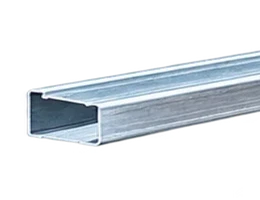
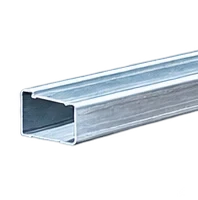
Профиль на первом экране вернул к исходному кадру: линия прямая, стык со станком без излома

diff --git a/index.html b/index.html
@@ -279,7 +279,7 @@ p{margin:0}
 /* the line runs wider than its column and off the right edge, so it reads big */
 .mach{position:relative;width:149%;margin-right:-49%}
 .mach-body{position:relative;z-index:2;width:100%;height:auto;display:block}
-.mach-rail{position:absolute;z-index:1;left:-3.61%;top:49.62%;width:15.15%;height:auto;display:block}
+.mach-rail{position:absolute;z-index:1;left:0;top:49.62%;width:11.54%;height:auto;display:block}
 
 @media (prefers-reduced-motion:no-preference){
   /* parked under the machine until the block is on screen, otherwise on phones
@@ -796,9 +796,6 @@ body.cart-open .fab-menu{display:none!important}
 }
 @media(max-width:392px){.brand-t span{display:none}}
 @media(max-width:344px){.brand-t{display:none}}
-/* wide screens: the picture runs to the window edge and the machine grows with
-   it, so the emerging profile has to tuck in or it reaches the headline */
-@media(min-width:1241px){.mach-rail{left:-2.1%}}
 </style>
 <script>
 /* runs before anything is drawn: the theme must be settled before the first
